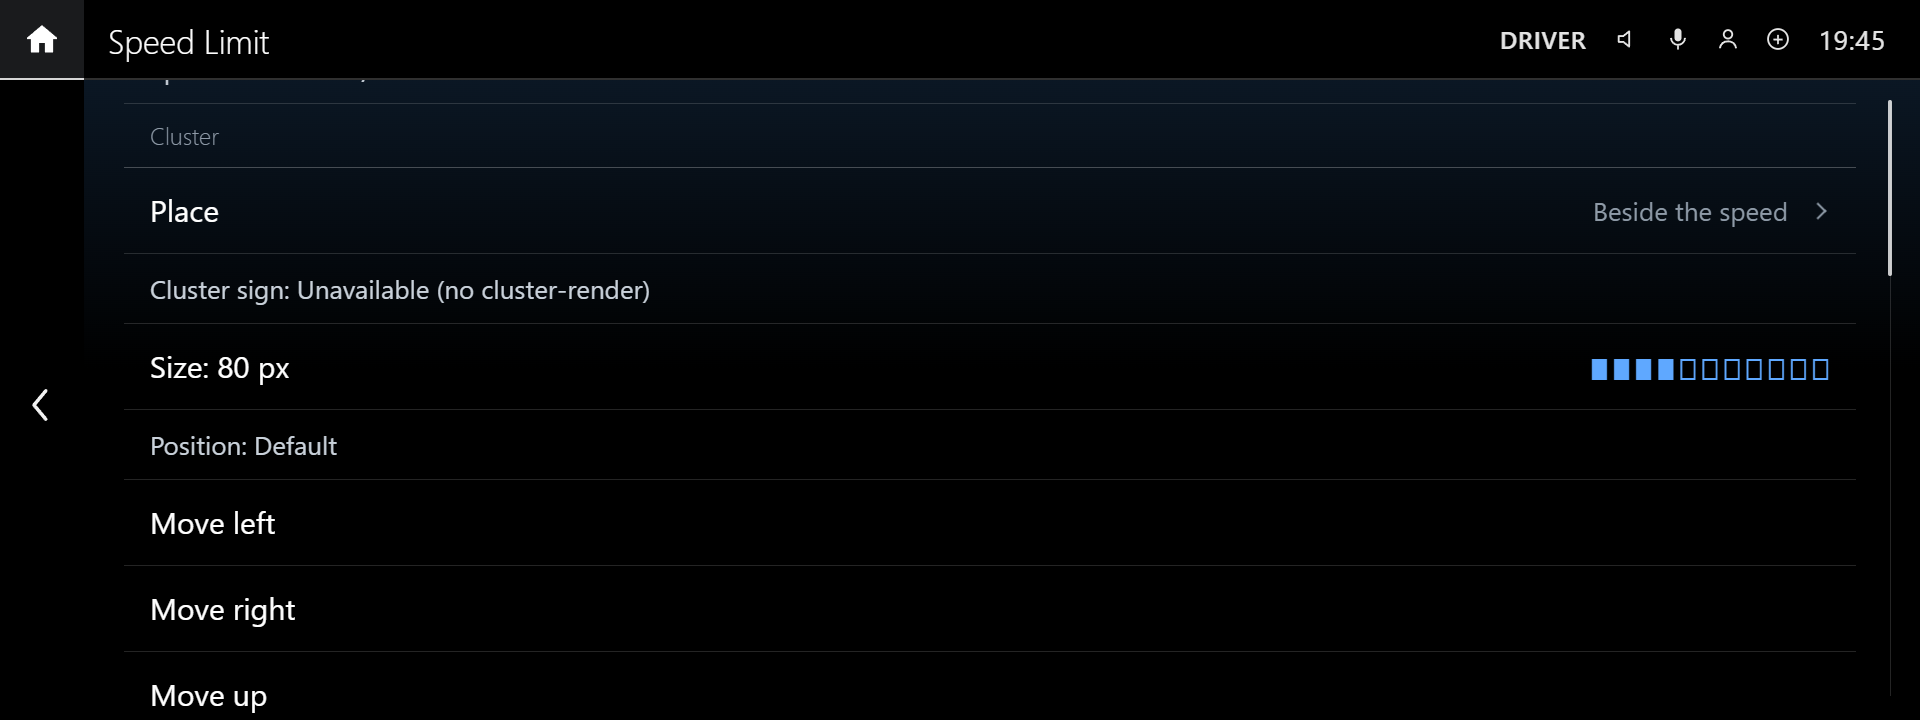
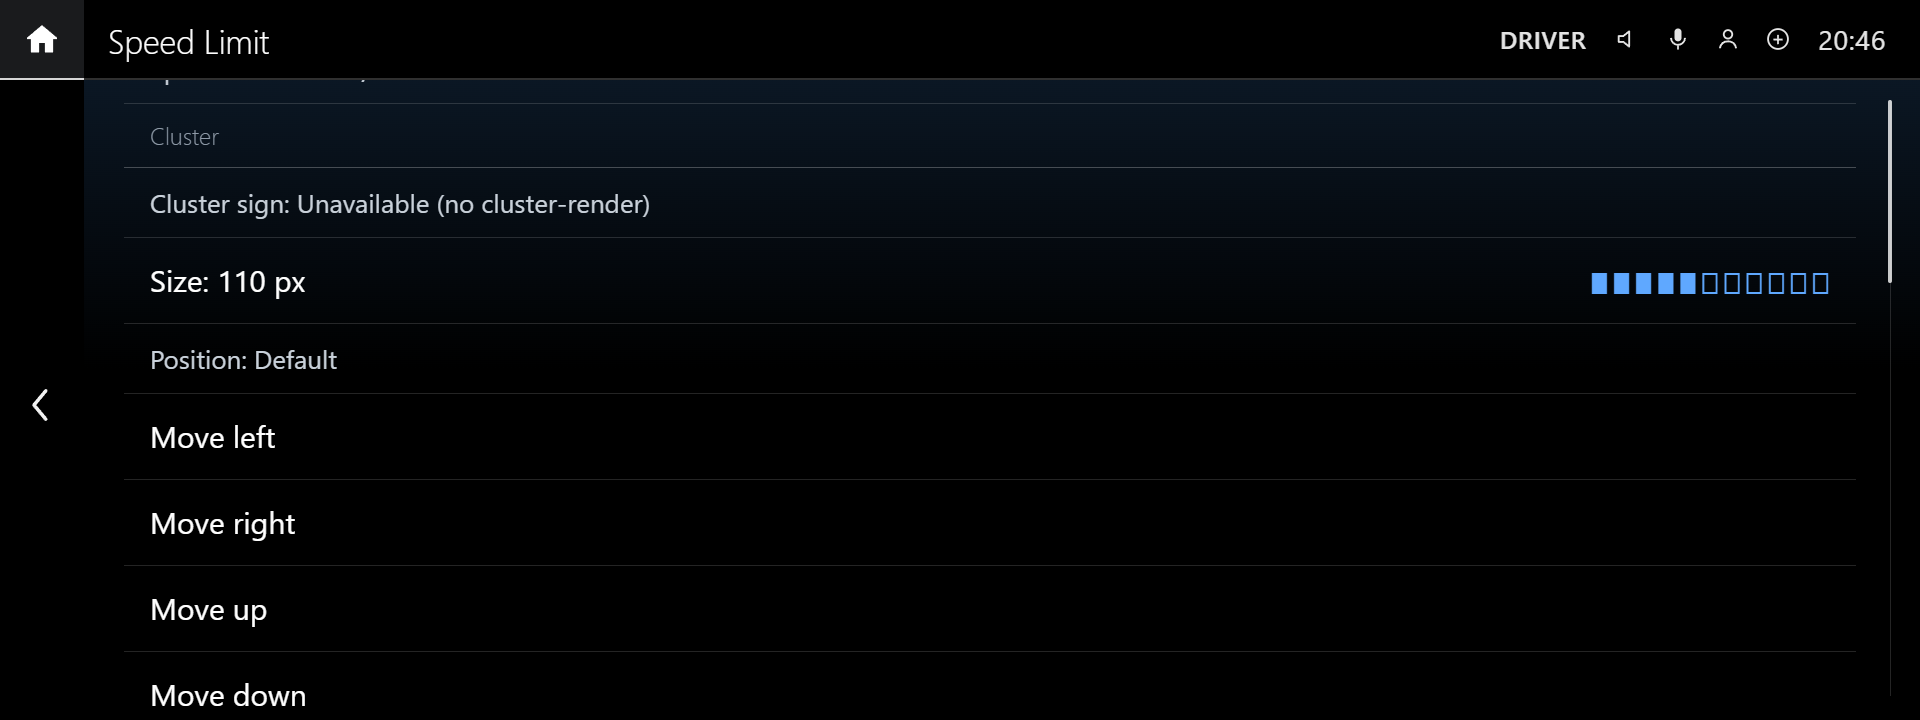
feat(speed_limit): 1.0.6 - the cluster sign on the phone map only
The panel target (beside the speed, BMW's LIMIT box) is the cluster slot BMW's own trip and board computer content
uses, one content at a time: the sign there hid the trip info (or waited behind it). It is gone, with its Place
choice and panelSize/X/Y. The cluster sign shows on Maps on cluster's map, at its top centre, while that map is
shown; the Cluster section places it (size, position, Default position). test_speed_limit_outputs.js checks that
nothing goes on the panel.

diff --git a/apps/speed_limit/outputs.js b/apps/speed_limit/outputs.js
@@ -5,19 +5,16 @@
  *   const out = new Outputs('speed_limit', log, settings).start();
  *   out.update({ limit, inferred, over } | { limit: null, unknown: true } | null, now);   out.tick(now);   out.stop()
  *
- * Setting "show": cluster | hud | both | off (as Maps on cluster's Show on). On the cluster, setting "clusterPlace":
- *   speed  the panel target (1920 x 720, the whole cluster over its dials: transparent but for the sign), where BMW's
- *          own speed limit shows, the LIMIT box under the speedometer. Shown whenever there is a limit. (A cluster that
- *          refuses the panel's scene id makes cluster-render use the HUD's for it: then the panel and the HUD are never
- *          shown at once, cluster-render README "Arbitration".)
- *   map    the map target (1088 x 480, the centre under the dials), only while another app (Maps on cluster) shows
- *          its picture there: cluster-render's status lists every client's layers ("layer 3 video of <app> on map,
- *          content z 0: shown"); asked every 3 s while the sign is on the map, else every 10 s and at once on a map
- *          target event. The sign never makes the map target wanted by itself (never takes the centre from the
- *          stock map).
+ * Setting "show": cluster | hud | both | off (as Maps on cluster's Show on).
+ * Cluster: the map target (1088 x 480, the centre under the dials), only while another app (Maps on cluster) shows
+ * its picture there: cluster-render's status lists every client's layers ("layer 3 video of <app> on map, content
+ * z 0: shown"); asked every 3 s while the sign is on the map, else every 10 s and at once on a map target event. The
+ * sign never makes the map target wanted by itself (never takes the centre from the stock map). (Not the panel
+ * target, beside the speed: it is the slot BMW's own trip and board computer content uses, one content at a time,
+ * so the sign there hid it.)
  * HUD (800 x 480): beside BMW's own speed (transparent pixels are see-through); it gives way to BMW's pop-ups on the
  * HUD (yield 1), unless setting "hudKeep" keeps it over them (yield 0).
- * Each place has its size and offset settings: hudSize/X/Y, panelSize/X/Y, clusterSize/X/Y (the map). A view
+ * Each place has its size and offset settings: hudSize/X/Y, clusterSize/X/Y (the map). A view
  * { limit: null, unknown: true } shows the "---" sign (setting "noLimit"). A layer with nothing to show is hidden
  * (visible 0): the display is given back after cluster-render's linger (3 s). stop() drops the layers and closes the
  * connection: cluster-render releases the surfaces at once.
@@ -27,17 +24,12 @@ const { drawSign } = require('./sign');
 
 const TARGETS = {
     hud: { w: 800, h: 480, cx: 175, cy: 290, size: 'hudSize', x: 'hudX', y: 'hudY', def: 88 },
-    // the LIMIT box under the speedometer, where BMW's own speed limit shows (measured on a G15's cluster)
-    panel: { w: 1920, h: 720, cx: 536, cy: 604, size: 'panelSize', x: 'panelX', y: 'panelY', def: 80 },
     // the top centre of the map area: its corners sit behind the dials
     map: { w: 1088, h: 480, cx: 544, cy: 110, size: 'clusterSize', x: 'clusterX', y: 'clusterY', def: 110 },
 };
 const LAYER_RX = /^layer \d+ (\S+) of (.+) on (\w+), (\w+) z -?\d+[^:]*: (\w+)/;
 const STATUS_MS = 3000;          // while the sign is on the cluster's map: notice soon that the phone map went
 const STATUS_IDLE_MS = 10000;    // otherwise (a map target event asks at once)
-
-/** The cluster's target for the settings: 'panel' (beside the speed) or 'map' (on the phone map). */
-function clusterTarget(settings) { return settings.get('clusterPlace') === 'map' ? 'map' : 'panel'; }
 
 class Outputs {
     /** opts.cr: options for the cluster-render client ({ path, check }: tests) */
@@ -47,7 +39,7 @@ class Outputs {
         this.log = log || { info() {}, warn() {} };
         this.settings = settings;
         this.cr = null;
-        this.layers = {};           // hud | panel | map -> { ref, size, x, y, key, visible, yld }
+        this.layers = {};           // hud | map -> { ref, size, x, y, key, visible, yld }
         this.mapBusy = false;       // another app shows a picture on the map target
         this.mapBusyBy = '';
         this.lastStatus = 0;
@@ -96,8 +88,7 @@ class Outputs {
     _wanted(t) {
         const show = this.settings.get('show');
         if (t === 'hud') return show === 'hud' || show === 'both';
-        if (!(show === 'cluster' || show === 'both') || clusterTarget(this.settings) !== t) return false;
-        return t === 'panel' || this.mapBusy;
+        return (show === 'cluster' || show === 'both') && this.mapBusy;
     }
 
     /** Show this (or nothing). */
@@ -109,7 +100,7 @@ class Outputs {
     _apply() {
         const cr = this.cr;
         if (!cr || !cr.ready) return;
-        ['hud', 'panel', 'map'].forEach((t) => {
+        ['hud', 'map'].forEach((t) => {
             let L = this.layers[t];
             const show = !!(this.view && (this.view.limit || this.view.unknown) && this._wanted(t));
             if (!show) {
@@ -134,13 +125,13 @@ class Outputs {
         });
     }
 
-    /** Now and then: ask cluster-render who draws on the map target (only with the sign meant for the map, and while
-     * there is a limit to show or the sign is on it: nothing to ask otherwise). */
+    /** Now and then: ask cluster-render who draws on the map target (only while there is a limit to show, or the sign
+     * is on the map: nothing to ask otherwise). */
     tick(now) {
         if (!this.view && !this.mapBusy) return;
         const cr = this.cr;
         const show = this.settings.get('show');
-        if (!cr || !cr.ready || (show !== 'cluster' && show !== 'both') || clusterTarget(this.settings) !== 'map') return;
+        if (!cr || !cr.ready || (show !== 'cluster' && show !== 'both')) return;
         if (now - this.lastStatus < (this.mapBusy ? STATUS_MS : STATUS_IDLE_MS)) return;
         this.lastStatus = now;
         cr.status();
@@ -167,10 +158,9 @@ class Outputs {
         const st = (t) => (L[t] ? (L[t].visible ? this.layerStates[L[t].ref] || 'sent' : 'hidden') : 'none');
         return {
             connected: !!(cr && cr.ready), unsupported: cr ? cr.unsupported : '', targetsOffered: cr ? cr.targets : '',
-            hud: st('hud'), panel: st('panel'), map: st('map'), cluster: st(clusterTarget(this.settings)),
-            clusterTarget: clusterTarget(this.settings), mapBusy: this.mapBusy, mapBusyBy: this.mapBusyBy, targets: this.targets, refused: this.refused,
+            hud: st('hud'), map: st('map'), cluster: st('map'), mapBusy: this.mapBusy, mapBusyBy: this.mapBusyBy, targets: this.targets, refused: this.refused,
         };
     }
 }
 
-module.exports = { Outputs, LAYER_RX, TARGETS, clusterTarget };
+module.exports = { Outputs, LAYER_RX, TARGETS };

diff --git a/apps/speed_limit/main.js b/apps/speed_limit/main.js
@@ -21,7 +21,7 @@ const Car = require('./kit/car');
 const { LimitPack } = require('./limitpack');
 const { Matcher } = require('./matcher');
 const { Position, DemoDrive } = require('./position');
-const { Outputs, TARGETS, clusterTarget } = require('./outputs');
+const { Outputs, TARGETS } = require('./outputs');
 
 const APP_ID = 'speed_limit';
 const PACK = path.join(__dirname, 'georgia.pack');
@@ -173,25 +173,23 @@ async function background(bg) {
 /* ---------- the page: the HMI's own list, laid out as Maps on cluster's (app.json screen "menu") ----------
  * General: Show on (Cluster, HUD, Cluster and HUD, Off), Red sign over the limit, When there's no limit (nothing, or
  * "---" as BMW's own), Speed limit.
- * Cluster: Place (beside the speed: BMW's LIMIT box, the panel target; or on the phone map), Cluster sign, Size (a
- * slider), Position with Move left / right / up / down and Default position (each place keeps its own).
+ * Cluster (on the phone map, Maps on cluster's): Cluster sign, Size (a slider), Position with Move left / right / up /
+ * down and Default position.
  * HUD: HUD sign, Keep HUD sign over BMW's pop-ups, Size, Position, the moves and Default position.
  * A section's controls are greyed while Show on leaves its display out. Map: the data's date and licence. Info rows
  * read "Name: Value"; a row is written only when it changes, and only while the page shows. ASCII only. */
 const SHOW = ['cluster', 'hud', 'both', 'off'];
 const OVER = ['0', '5', '10', '15', '20'];
 const NOLIMIT = ['nothing', 'dashes'];
-const PLACE = ['speed', 'map'];
 // the slider's sizes (positions 0..10) and the move step on each target
 const SIZES = {
     hud: [64, 72, 80, 88, 96, 104, 112, 120, 128, 136, 144],
-    panel: [56, 64, 72, 80, 88, 96, 104, 112, 120, 136, 152],
     map: [70, 80, 90, 100, 110, 120, 130, 140, 150, 160, 180],
 };
-const STEP = { hud: 10, panel: 10, map: 20 };
-/** A section's place now: the HUD's, or the cluster's (the panel or the map, setting "clusterPlace"). */
-function placeOf(k, s) {
-    const target = k === 'hud' ? 'hud' : clusterTarget(s), T = TARGETS[target];
+const STEP = { hud: 10, map: 20 };
+/** A section's place: the HUD's, or the cluster's (the phone map). */
+function placeOf(k) {
+    const target = k === 'hud' ? 'hud' : 'map', T = TARGETS[target];
     return { target, show: k, size: T.size, x: T.x, y: T.y, def: T.def, sizes: SIZES[target], step: STEP[target], row: k === 'hud' ? 'SL_HUD' : 'SL_CL' };
 }
 
@@ -210,7 +208,7 @@ function signState(e, t) {
     if (show !== t && show !== 'both') return 'Off';
     if (!e.active) return e.enabled() ? 'Car off' : 'Off';
     if (!o.connected) return 'Unavailable (no cluster-render)';
-    if (t === 'cluster' && o.clusterTarget === 'map' && !o.mapBusy) return 'Waiting for the phone map';
+    if (t === 'cluster' && !o.mapBusy) return 'Waiting for the phone map';
     if (!e.view) return 'No limit to show';
     const st = o[t === 'cluster' ? 'cluster' : 'hud'];
     return /^shown/.test(st) ? 'Shown' : /^waiting|^parked/.test(st) ? 'Waiting (' + st + ')' : 'Waiting';
@@ -244,7 +242,7 @@ mgu.run({
 
         /** A display's section: its status row, size slider, position row and buttons (greyed while it is not chosen). */
         function renderPlace(k) {
-            const P = placeOf(k, s), R = P.row, slider = sliders[k], live = on(P);
+            const P = placeOf(k), R = P.row, slider = sliders[k], live = on(P);
             const x = Number(s.get(P.x)) || 0, y = Number(s.get(P.y)) || 0;
             // the slider at the size nearest the setting; its text says the size itself (keyed by the place too: two
             // places can share a slider position with different sizes)
@@ -259,11 +257,6 @@ mgu.run({
             ['_SIZE', '_LEFT', '_RIGHT', '_UP', '_DOWN'].concat(k === 'hud' ? ['_KEEP'] : []).forEach((n) => once('en:' + R + n, live, () => ui.enabled(R + n, live)));
             const back = live && (x !== 0 || y !== 0);
             once('en:' + R + '_DEFAULT', back, () => ui.enabled(R + '_DEFAULT', back));
-            if (k === 'cluster') {
-                const place = Math.max(0, PLACE.indexOf(s.get('clusterPlace')));
-                once('place', place, () => ui.selected('SL_CL_PLACE', place));
-                once('en:SL_CL_PLACE', live, () => ui.enabled('SL_CL_PLACE', live));
-            }
         }
 
         function render() {
@@ -285,13 +278,12 @@ mgu.run({
         ui.onClick('SL_SHOW', (ev) => { const v = SHOW[ev.row]; if (v) { done.show = ev.row; s.set('show', v); } });
         ui.onClick('SL_OVER', (ev) => { const v = OVER[ev.row]; if (v != null) { done.over = ev.row; s.set('overspeed', v); } });
         ui.onClick('SL_NOLIMIT', (ev) => { const v = NOLIMIT[ev.row]; if (v) { done.nolim = ev.row; s.set('noLimit', v); } });
-        ui.onClick('SL_HUD_KEEP', () => { if (on(placeOf('hud', s))) s.set('hudKeep', !s.get('hudKeep')); });
-        ui.onClick('SL_CL_PLACE', (ev) => { const v = PLACE[ev.row]; if (v) { done.place = ev.row; s.set('clusterPlace', v); } });
+        ui.onClick('SL_HUD_KEEP', () => { if (on(placeOf('hud'))) s.set('hudKeep', !s.get('hudKeep')); });
         ['hud', 'cluster'].forEach((k) => {
             const R = k === 'hud' ? 'SL_HUD' : 'SL_CL', slider = sliders[k];
-            if (slider && slider.on) slider.on('changed', (step) => { const P = placeOf(k, s), v = P.sizes[step]; if (v && on(P)) { done[R + ':sizeStep'] = step; s.set(P.size, v); } });
+            if (slider && slider.on) slider.on('changed', (step) => { const P = placeOf(k), v = P.sizes[step]; if (v && on(P)) { done[R + ':sizeStep'] = step; s.set(P.size, v); } });
             const move = (dx, dy) => () => {
-                const P = placeOf(k, s);
+                const P = placeOf(k);
                 if (!on(P)) return;
                 const B = room(P, s), x = Number(s.get(P.x)) || 0, y = Number(s.get(P.y)) || 0;
                 const nx = Math.round(Math.max(B.x0, Math.min(B.x1, x + dx * P.step))), ny = Math.round(Math.max(B.y0, Math.min(B.y1, y + dy * P.step)));
@@ -302,7 +294,7 @@ mgu.run({
             ui.onClick(R + '_RIGHT', move(1, 0));
             ui.onClick(R + '_UP', move(0, -1));
             ui.onClick(R + '_DOWN', move(0, 1));
-            ui.onClick(R + '_DEFAULT', () => { const P = placeOf(k, s); if (s.get(P.x)) s.set(P.x, 0); if (s.get(P.y)) s.set(P.y, 0); });
+            ui.onClick(R + '_DEFAULT', () => { const P = placeOf(k); if (s.get(P.x)) s.set(P.x, 0); if (s.get(P.y)) s.set(P.y, 0); });
         });
         s.onChange(render);
         // the status rows: at most once a second, and only while the page is open

diff --git a/kit/tools/test_speed_limit_outputs.js b/kit/tools/test_speed_limit_outputs.js
@@ -60,7 +60,7 @@ function send(s, obj) {
     s.write(Buffer.concat([h, j]));
 }
 
-const settings = { v: { show: 'both', clusterPlace: 'map', hudSize: 88, hudX: 0, hudY: 0, clusterSize: 110, clusterX: 0, clusterY: 0, panelSize: 80, panelX: 0, panelY: 0 }, get(k) { return this.v[k]; } };
+const settings = { v: { show: 'both', hudSize: 88, hudX: 0, hudY: 0, clusterSize: 110, clusterX: 0, clusterY: 0 }, get(k) { return this.v[k]; } };
 const log = { info() {}, warn() {}, error() {} };
 const wait = (ms) => new Promise((r) => setTimeout(r, ms));
 let fails = 0;
@@ -128,17 +128,8 @@ const ops = (op) => got.filter((g) => g.t === 'J' && g.m.op === op).map((g) => g
     await wait(100);
     check(ops('set').filter((m) => m.ref === hx.ref && m.visible === 0).length === hiddenBefore + 1, '"Cluster": HUD sign hidden');
 
-    // the cluster sign beside the speed (the panel target, BMW's LIMIT box): shown at once, no phone map needed
-    settings.v.clusterPlace = 'speed';
-    out.update({ limit: 70, inferred: false, over: false }, Date.now());
-    await wait(150);
-    const pan = ops('layer').filter((m) => m.target === 'panel');
-    check(pan.length === 1 && pan[0].w === 80 && pan[0].x === 536 - 40 && pan[0].y === 604 - 40, 'beside the speed: an 80 px sign on the panel at the LIMIT box (' + (pan[0] ? pan[0].x + ',' + pan[0].y : '-') + ')');
-    check(got.some((g) => g.t === 'F' && pan[0] && g.ref === pan[0].ref && g.bytes === 80 * 80 * 4), 'beside the speed: its pixels sent');
-    const statusBefore = ops('status').length;
-    out.tick(Date.now() + 60000);
-    await wait(100);
-    check(ops('status').length === statusBefore, 'beside the speed: cluster-render\'s status not asked (no phone map to watch)');
+    // never the panel (the whole-cluster slot BMW's trip and board computer content uses)
+    check(!ops('layer').some((m) => m.target === 'panel'), 'nothing on the panel target (BMW\'s trip info keeps its slot)');
 
     // "Show ---" (no limit known): the dash sign on the HUD again
     settings.v.show = 'both';

diff --git a/README.md b/README.md
@@ -6,7 +6,7 @@ Three apps for BMW iDrive 7 head units (MGU), installed through the [MGU Store](
 | :--- | :---: | :---: | :--- |
 | [Spotify](#spotify) | 1.0.32 | Yes | Nothing |
 | [M-Copilot](#m-copilot) | 1.0.35 | Yes | Driving signals, service list, fault memory (read-only) |
-| [Speed Limit](#speed-limit) | 1.0.5 | No | Position, speed and power state (read-only) |
+| [Speed Limit](#speed-limit) | 1.0.6 | No | Position, speed and power state (read-only) |
 
 System Monitor has moved to its own repository, [hexlay/idrive7-system-monitor](https://github.com/hexlay/idrive7-system-monitor). To keep getting updates, add `hexlay/idrive7-system-monitor` as a source in the MGU Store.
 
@@ -74,10 +74,8 @@ reads the car's position, speed and power state.
   - **General:** **Show on** (Cluster, HUD, Cluster and HUD, or Off), **Red sign over the limit** (Off, +5,
     +10, +15 or +20 km/h), **When there's no limit** (Show nothing, or Show --- as BMW's own Speed Limit Info), and
     **Speed limit** (what it shows now).
-  - **Cluster:** **Place** (**Beside the speed**, where BMW's own speed limit shows, the LIMIT box under the
-    speedometer; or **On the phone map**, at its top centre while Maps on cluster shows it), **Cluster sign**,
-    **Size** (a slider), **Position** with **Move left / right / up / down** and **Default position**, each place
-    its own. Greyed while Show on leaves the cluster out.
+  - **Cluster:** **Cluster sign**, **Size** (a slider), **Position** with **Move left / right / up / down** and
+    **Default position** (the top centre of the phone map). Greyed while Show on leaves the cluster out.
   - **HUD:** **HUD sign**, **Keep HUD sign over BMW's pop-ups**, **Size** (a slider), **Position** with **Move
     left / right / up / down** and **Default position**. They are greyed while Show on leaves the HUD out.
   - **Map:** the map data's date and licence.
@@ -89,7 +87,8 @@ reads the car's position, speed and power state.
   taking the car's 10 a second, uses GPSData only while the navigation's position is missing, and asks cluster-render
   how the map is doing every 3 s only while its sign is on the map (else every 10 s). At start-up it waits for the
   car's power state, so a parked car's head unit starting up never opens the map or subscribes to anything.
-- **Cluster:** beside the speed, in BMW's own speed-limit box (the default), or on the phone map (Maps on cluster).
+- **Cluster:** on the phone map (Maps on cluster), at its top centre, while that map is shown. Not beside the speed:
+  that is the cluster slot BMW's own trip and board computer info uses, one at a time, so a sign there hides it.
 - **Head-up display:** the round sign beside BMW's own speed; size and place on the page.
 - **Roads without a limit on the map** show the legal default with a grey ring: 60 km/h in a settlement, 90 outside,
   110 on motorways, 20 in living streets.
@@ -106,11 +105,11 @@ at a junction. In a tunnel the last limit is kept until the position comes back.
 | ![Speed Limit show on](docs/screenshots/speed_limit_show_on.png) | ![Speed Limit over the limit setting](docs/screenshots/speed_limit_overspeed.png) |
 | **HUD settings** | **Show on: Cluster** (the HUD settings greyed) |
 | ![Speed Limit HUD settings](docs/screenshots/speed_limit_hud_settings.png) | ![Speed Limit cluster only](docs/screenshots/speed_limit_cluster_only.png) |
-| **Cluster settings** | **Place on the cluster** |
-| ![Speed Limit cluster settings](docs/screenshots/speed_limit_cluster_settings.png) | ![Speed Limit cluster place](docs/screenshots/speed_limit_cluster_place.png) |
+| **Cluster settings** | |
+| ![Speed Limit cluster settings](docs/screenshots/speed_limit_cluster_settings.png) | |
 | **When there's no limit** | **The signs** |
 | ![Speed Limit when there's no limit](docs/screenshots/speed_limit_nolimit.png) | ![Speed Limit signs](docs/screenshots/speed_limit_signs.png) |
-| **Head-up display** (black is see-through) | **Cluster, beside the speed** (BMW's speed-limit box) |
+| **Head-up display** (black is see-through) | **Cluster, over the phone map** |
 | ![Speed Limit on the HUD](docs/screenshots/speed_limit_hud.png) | ![Speed Limit on the cluster](docs/screenshots/speed_limit_cluster.png) |
 
 The page screenshots are from the emulator with its demo drive on the Tbilisi Bypass Road. The head-up display and
